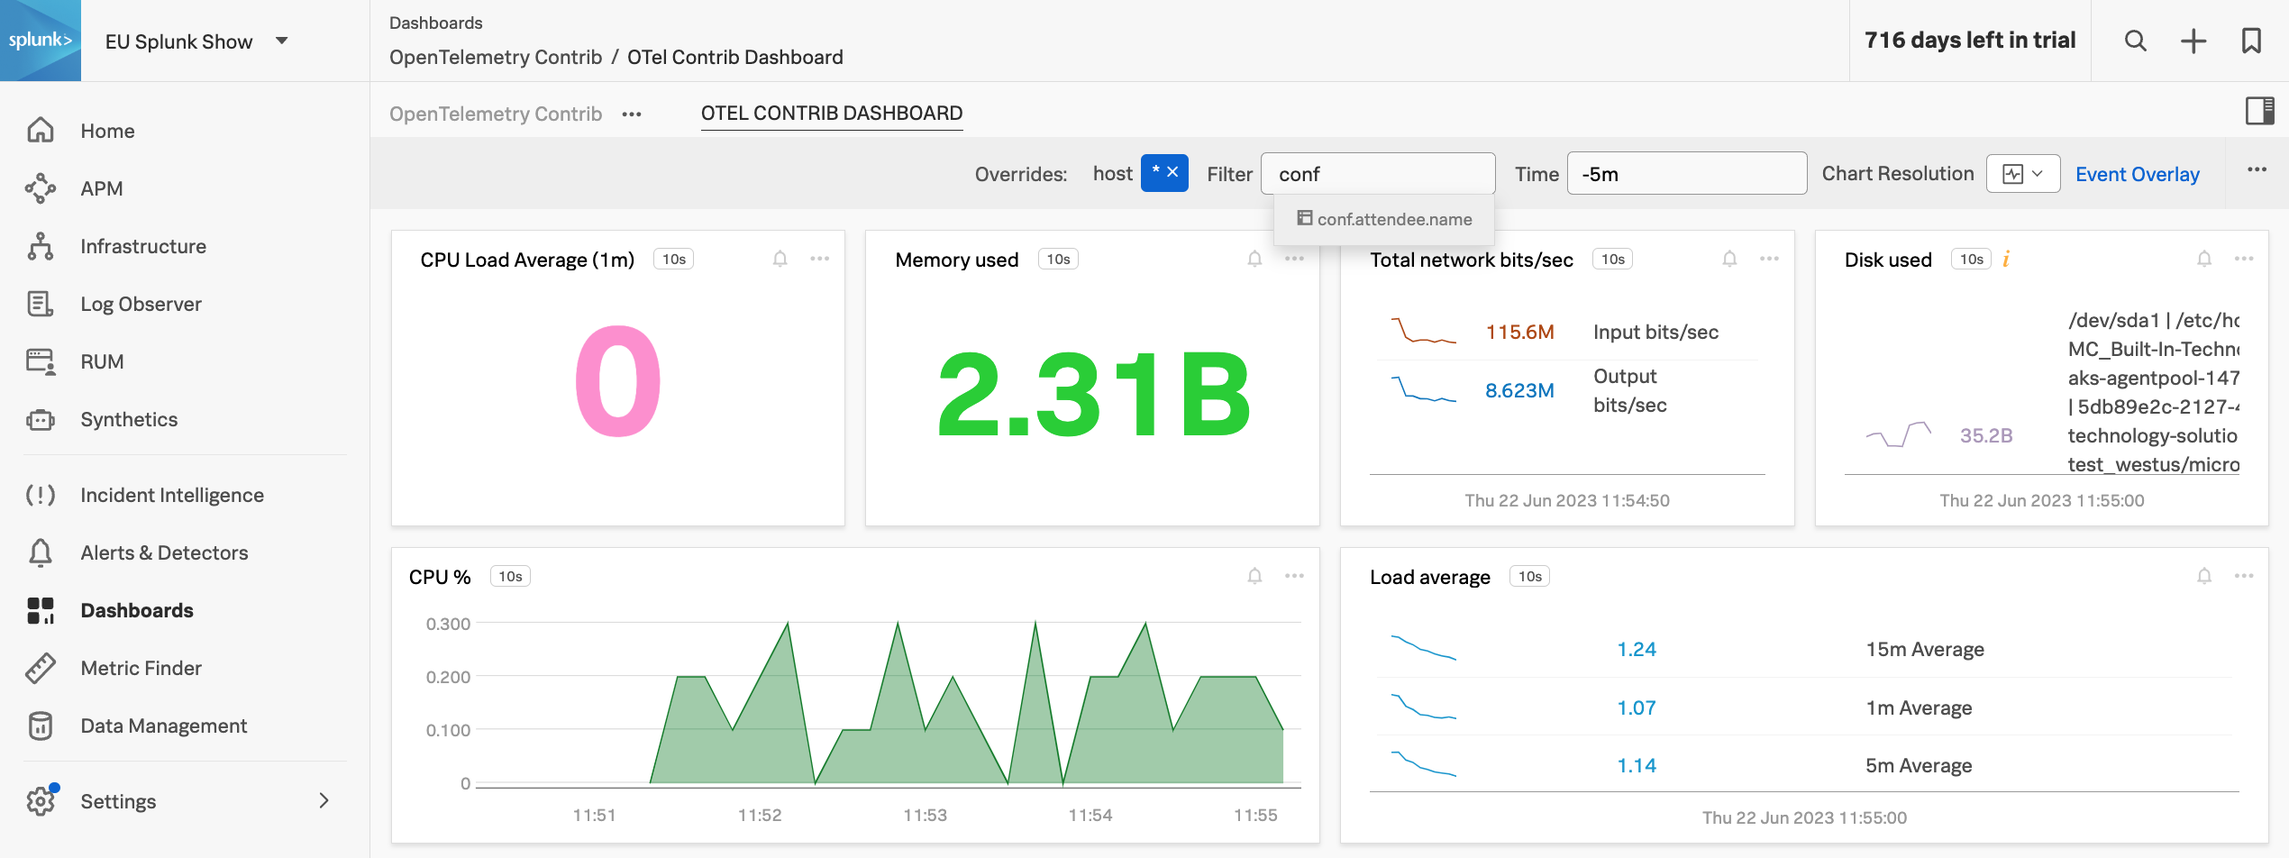
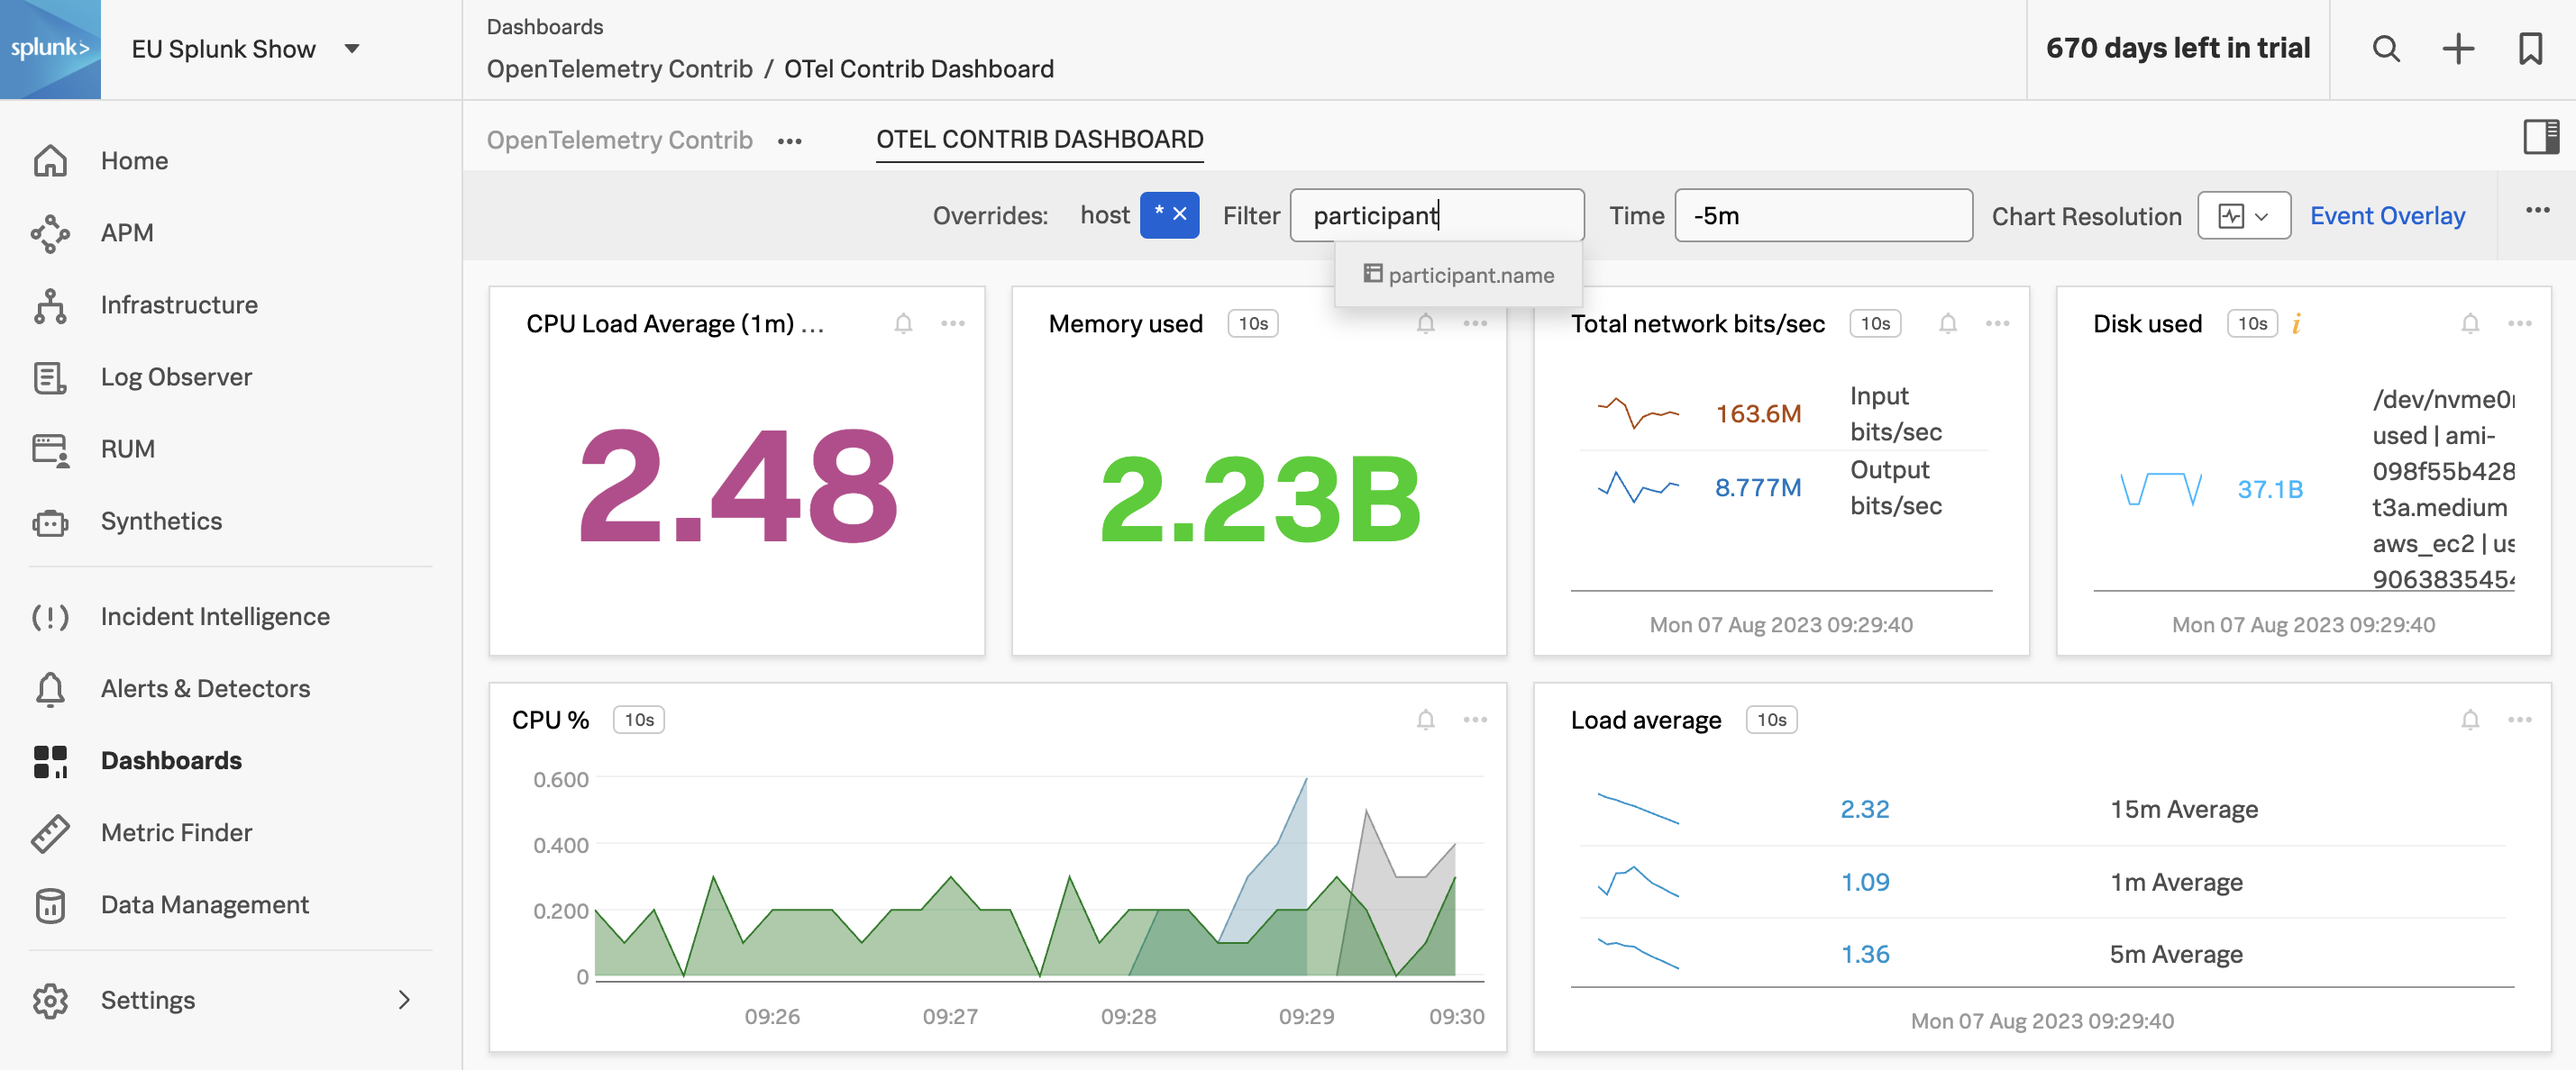
Change to participant.name

diff --git a/content/en/other/opentelemetry-collector/7-visualisation.md b/content/en/other/opentelemetry-collector/7-visualisation.md
@@ -24,20 +24,20 @@ In the search box, search for **OTel Contrib**:
 ![search-dashboards](../images/search-dashboards.png)
 
 {{% notice style="info" %}}
-If the dasboard does not exist, then your instructor will be able to quickly add it. If you are not attending a Splunk hosted version of this workshop then the Dashboard Group to import can be found at the bottom of this page.
+If the dashboard does not exist, then your instructor will be able to quickly add it. If you are not attending a Splunk hosted version of this workshop then the Dashboard Group to import can be found at the bottom of this page.
 {{% /notice %}}
 
 Click on the **OTel Contrib Dashboard** dashboard to open it:
 
 ![otel-dashboard](../images/otel-dashboard.png)
 
-In the **Filter** box, at the top of the dashboard, type in **conf** and select **conf.attendee.name**:
+In the **Filter** box, at the top of the dashboard, type in **participant** and select **participant.name**:
 
 ![search-filter](../images/search-filter.png)
 
-You can either start typing in your name you configured for `conf.attendee.name` in the `config.yaml` or you can select your name from the list:
+You can either start typing in your name you configured for `participant.name` in the `config.yaml` or you can select your name from the list:
 
-![select-conf-attendee-name](../images/select-conf-attendee-name.png)
+![select-conf-attendee-name](../images/select-participant-name.png)
 
 You can now see the host metrics for the host upon which you configured the OpenTelemetry Collector.
 

diff --git a/content/en/other/opentelemetry-collector/4-processors/3-attributes.md b/content/en/other/opentelemetry-collector/4-processors/3-attributes.md
@@ -17,7 +17,7 @@ It takes a list of actions which are performed in order specified in the config.
 - `hash`: Hashes (SHA1) an existing attribute value.
 - `extract`: Extracts values using a regular expression rule from the input key to target keys specified in the rule. If a target key already exists, it will be overridden.
 
-We are going to create an attributes processor to `insert` a new attribute to all our host metrics called `conf.attendee.name` with a value of your own name e.g. `homer_simpson`.
+We are going to create an attributes processor to `insert` a new attribute to all our host metrics called `participant.name` with a value of your own name e.g. `marge_simpson`.
 
 {{% notice style="warning" %}}
 
@@ -40,7 +40,7 @@ processors:
     detectors: [ec2]
   attributes/conf:
     actions:
-      - key: conf.attendee.name
+      - key: participant.name
         action: insert
         value: "INSERT_YOUR_NAME_HERE"
 ```
@@ -153,7 +153,7 @@ processors:
     detectors: [ec2]
   attributes/conf:
     actions:
-      - key: conf.attendee.name
+      - key: participant.name
         action: insert
         value: "INSERT_YOUR_NAME_HERE"
 

diff --git a/content/en/other/opentelemetry-collector/6-service/4-attributes.md b/content/en/other/opentelemetry-collector/6-service/4-attributes.md
@@ -6,7 +6,7 @@ weight: 4
 
 ## Attributes Processor
 
-Also in the Processors section of this workshop, we added the `attributes/conf` processor so that the collector will inset a new attribute called `conf.attendee.name` to all the metrics. We now need to enable this under the metrics pipeline.
+Also in the Processors section of this workshop, we added the `attributes/conf` processor so that the collector will inset a new attribute called `participant.name` to all the metrics. We now need to enable this under the metrics pipeline.
 
 Update the `processors` section to include `attributes/conf` under the `metrics` pipeline:
 

diff --git a/content/en/other/opentelemetry-collector/5-exporters/otlphttp.md b/content/en/other/opentelemetry-collector/5-exporters/otlphttp.md
@@ -143,7 +143,7 @@ processors:
     detectors: [ec2]
   attributes/conf:
     actions:
-      - key: conf.attendee.name
+      - key: participant.name
         action: insert
         value: "INSERT_YOUR_NAME_HERE"
 

diff --git a/content/en/other/opentelemetry-collector/6-service/5-otlphttp.md b/content/en/other/opentelemetry-collector/6-service/5-otlphttp.md
@@ -169,7 +169,7 @@ processors:
     detectors: [ec2]
   attributes/conf:
     actions:
-      - key: conf.attendee.name
+      - key: participant.name
         action: insert
         value: "INSERT_YOUR_NAME_HERE"
 
